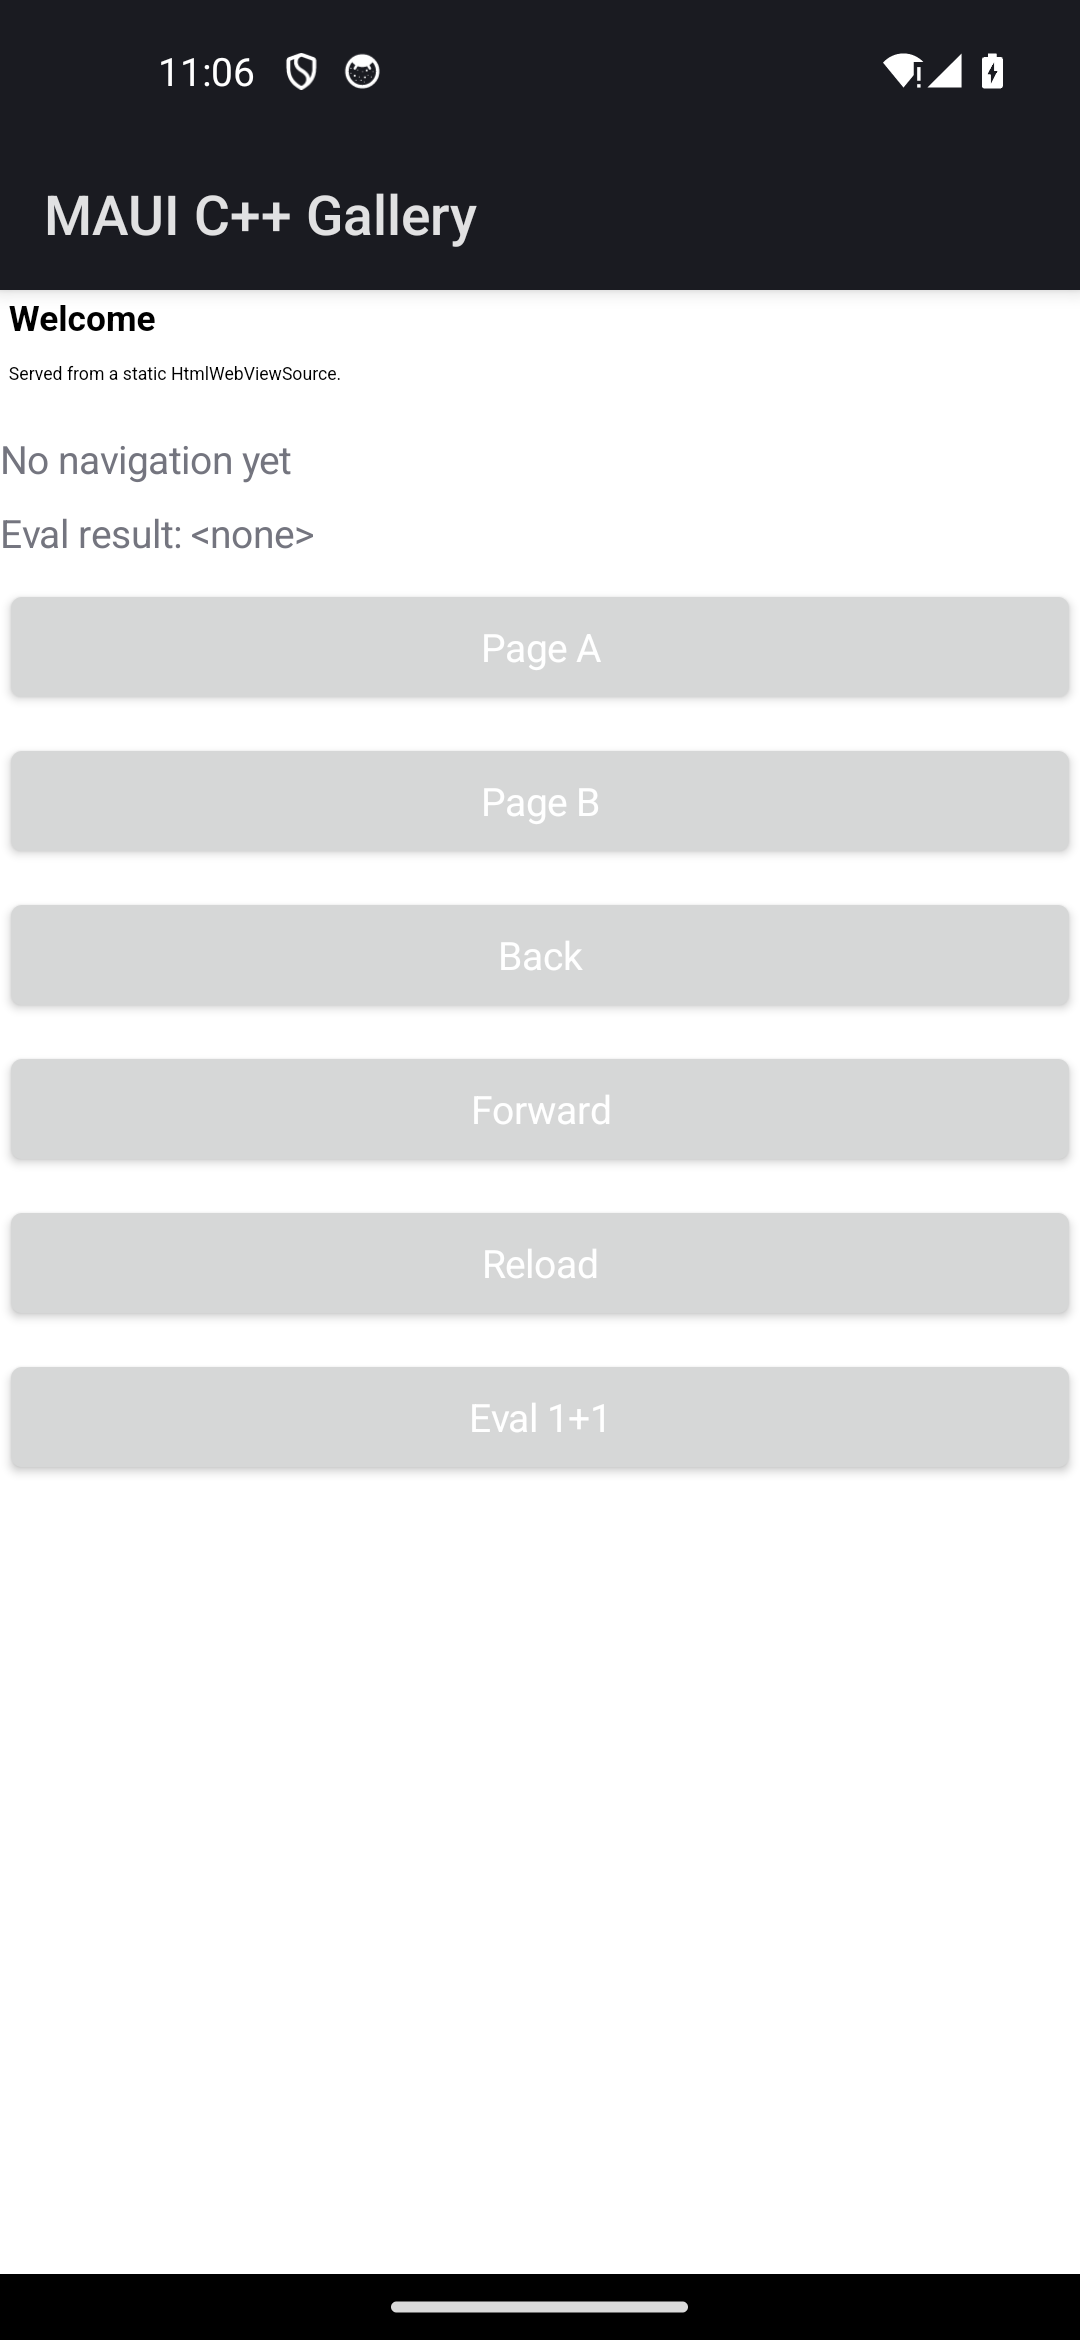
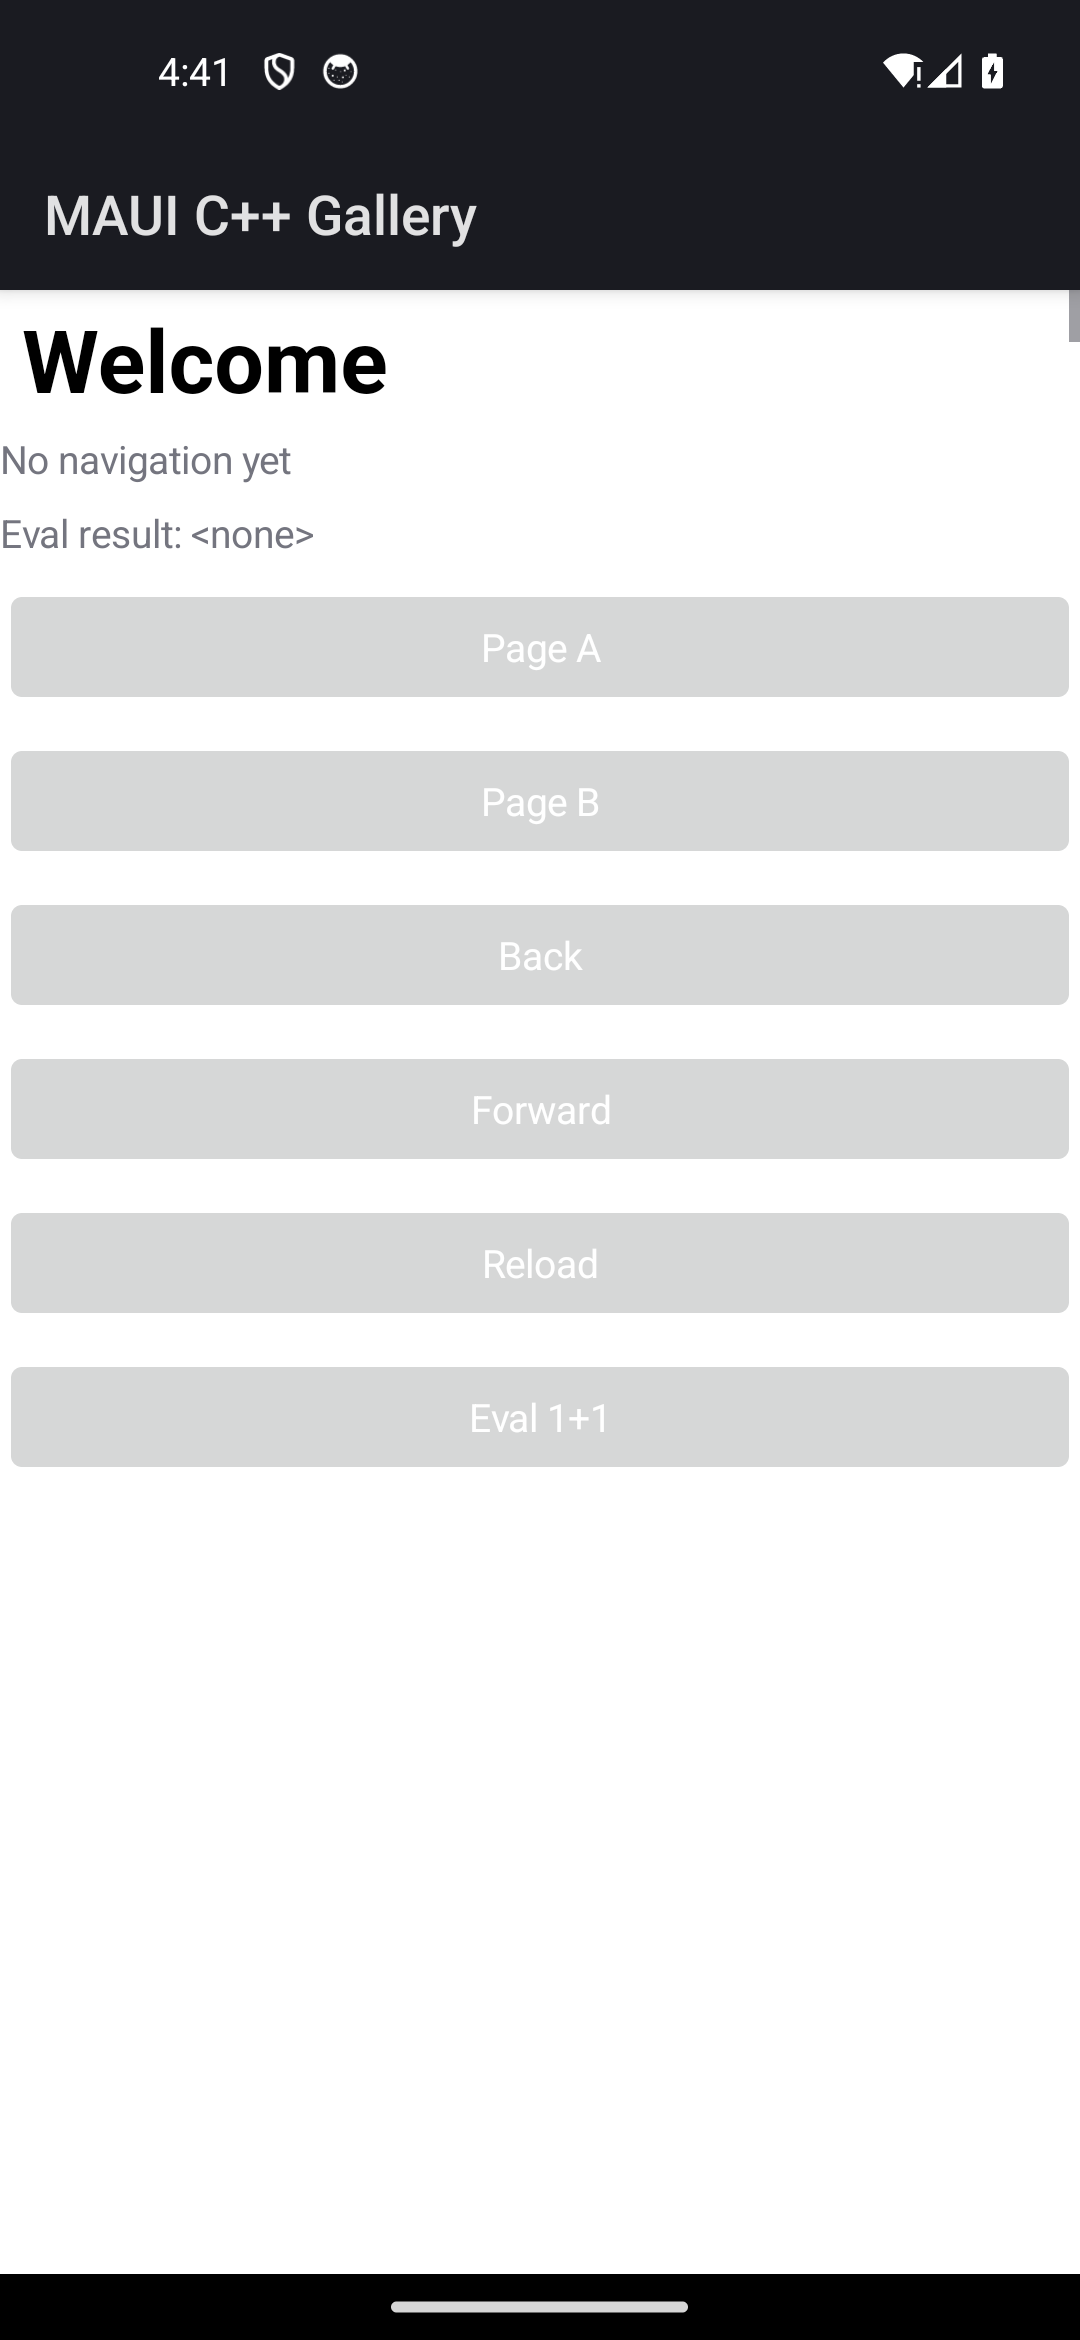
fix(android/web_view): drop invented wide-viewport/overview settings so <h1> renders large/bold (parity)
WebViewHandler.Android.CreatePlatformView applies only JavaScriptEnabled,
DomStorageEnabled and SetSupportMultipleWindows — it leaves the layout-viewport
settings at the Android WebView defaults (UseWideViewPort=false,
LoadWithOverviewMode=false), which render a no-<meta viewport> HtmlWebViewSource
at device-width with the browser default UA stylesheet (an <h1> is LARGE + BOLD),
matching the MAUI parity ground truth.

A prior port revision force-enabled setUseWideViewPort(true) +
setLoadWithOverviewMode(true) to shrink the page to a WKWebView-like overview fit.
That was an INVENTED deviation from the C# oracle and it shrank the <h1> to
body-text size — the web_view parity RED. Removed it and mirrored the two
WebSettings C# actually sets that the port was missing (DomStorageEnabled,
SetSupportMultipleWindows). Headless web suite 74/74 green; recaptured
android/cpp/web_view.png (Welcome now large/bold, matches MAUI).

hybrid_web_view is unchanged (recaptured deterministically) and remains a
documented DEFERRAL: there is no Android hybrid_web_view JNI handler (only
apple_shared + headless), so it renders no native WebView on Android and cannot
show Chromium's error page like MAUI — a bigger unimplemented-handler gap.

diff --git a/port/cpp/src/platform/android/web_view_handler.cpp b/port/cpp/src/platform/android/web_view_handler.cpp
@@ -415,9 +415,17 @@ namespace maui::core
             return platform; // WebView.<init> threw (no provider / data dir) — headless mirror it is
         }
         const local_ref<jobject> widget{env.get(), created};
-        // WebViewHandler.Android: platformView.Settings.JavaScriptEnabled = true. getSettings() returns the
-        // WebSettings; setJavaScriptEnabled(true). Best-effort — a missing settings surface does not block
-        // the static HTML render.
+        // WebViewHandler.Android.CreatePlatformView applies EXACTLY these WebSettings and no more:
+        //   Settings.JavaScriptEnabled = true; Settings.DomStorageEnabled = true;
+        //   Settings.SetSupportMultipleWindows(true);
+        // getSettings() returns the WebSettings; each set is best-effort — a missing settings surface does
+        // not block the static HTML render. Crucially, C# leaves the layout-viewport settings at the Android
+        // WebView DEFAULTS (UseWideViewPort=false, LoadWithOverviewMode=false), which renders a source with
+        // no <meta viewport> at device-width using the browser's default UA stylesheet — so an <h1> is LARGE
+        // and BOLD, matching the MAUI parity ground truth. (A prior port revision force-enabled
+        // setUseWideViewPort(true)+setLoadWithOverviewMode(true) to shrink the page to a WKWebView-like
+        // overview fit; that was an INVENTED deviation from the C# oracle and it shrank the <h1> to body-text
+        // size — the exact web_view parity RED. Removed: mirror C# and let the defaults stand.)
         jmethodID get_settings =
             cache.method(env.get(), k_web_view_class, "getSettings", "()Landroid/webkit/WebSettings;");
         if (get_settings != nullptr)
@@ -431,27 +439,20 @@ namespace maui::core
                     env->CallVoidMethod(settings.get(), set_js, JNI_TRUE);
                     clear_pending(env.get());
                 }
-                // Overview/wide-viewport rendering so the static document fits the view width at a compact
-                // text size — Android WebView's default is device-width (large text) where iOS WKWebView
-                // fits-to-overview by default. The parity ground truth (the iOS reference) renders this HTML
-                // small, and a smaller, content-fitting render keeps the whole document (the <h1> AND the
-                // <p>) inside the natural-content cell the no-HeightRequest WebView measures to — the port's
-                // layout pass is measure-once (view::invalidate_measure is the M3 no-op seam), so there is no
-                // post-load re-measure to grow the cell after Chromium's async content layout arrives. These
-                // are pure render settings (no content edit): setUseWideViewPort(true) + setLoadWithOverview
-                // Mode(true), the WebSettings analog of WKWebView's default overview fit.
-                jmethodID set_wide_viewport =
-                    cache.method(env.get(), k_web_settings_class, "setUseWideViewPort", "(Z)V");
-                if (set_wide_viewport != nullptr)
+                // Settings.DomStorageEnabled = true (C# CreatePlatformView).
+                jmethodID set_dom_storage =
+                    cache.method(env.get(), k_web_settings_class, "setDomStorageEnabled", "(Z)V");
+                if (set_dom_storage != nullptr)
                 {
-                    env->CallVoidMethod(settings.get(), set_wide_viewport, JNI_TRUE);
+                    env->CallVoidMethod(settings.get(), set_dom_storage, JNI_TRUE);
                     clear_pending(env.get());
                 }
-                jmethodID set_overview_mode =
-                    cache.method(env.get(), k_web_settings_class, "setLoadWithOverviewMode", "(Z)V");
-                if (set_overview_mode != nullptr)
+                // Settings.SetSupportMultipleWindows(true) (C# CreatePlatformView).
+                jmethodID set_multiple_windows =
+                    cache.method(env.get(), k_web_settings_class, "setSupportMultipleWindows", "(Z)V");
+                if (set_multiple_windows != nullptr)
                 {
-                    env->CallVoidMethod(settings.get(), set_overview_mode, JNI_TRUE);
+                    env->CallVoidMethod(settings.get(), set_multiple_windows, JNI_TRUE);
                     clear_pending(env.get());
                 }
             }
